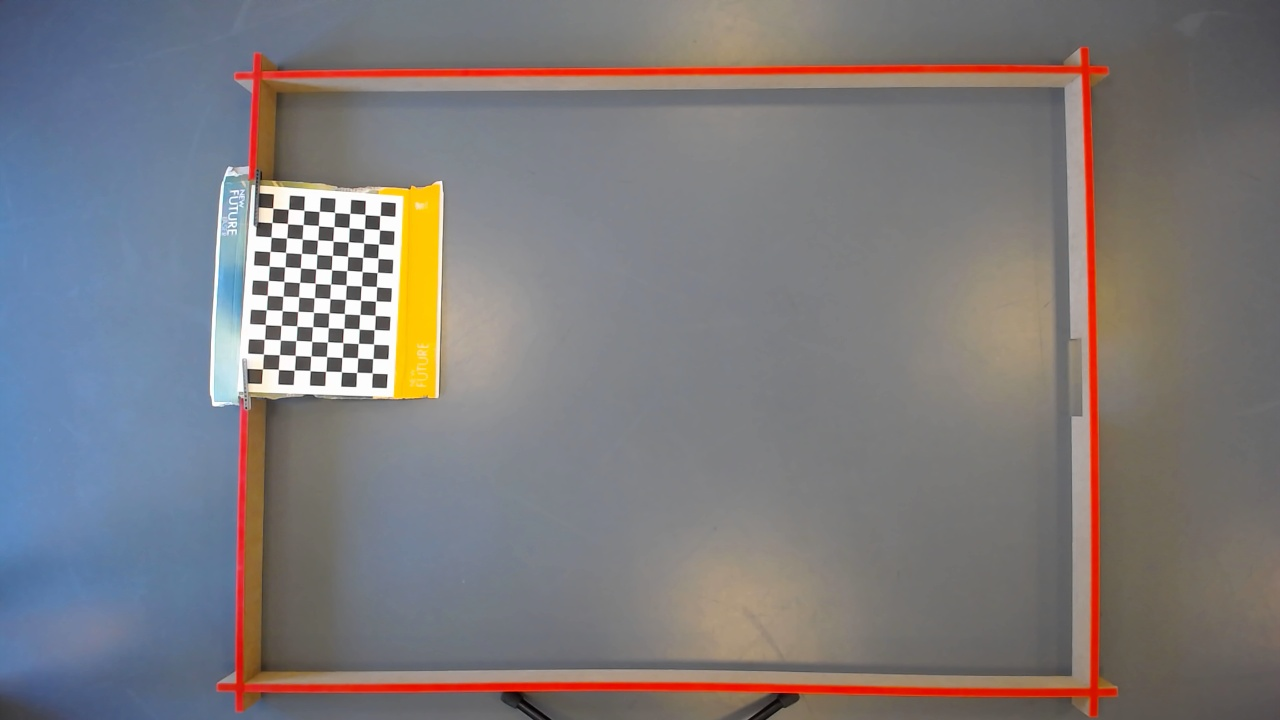
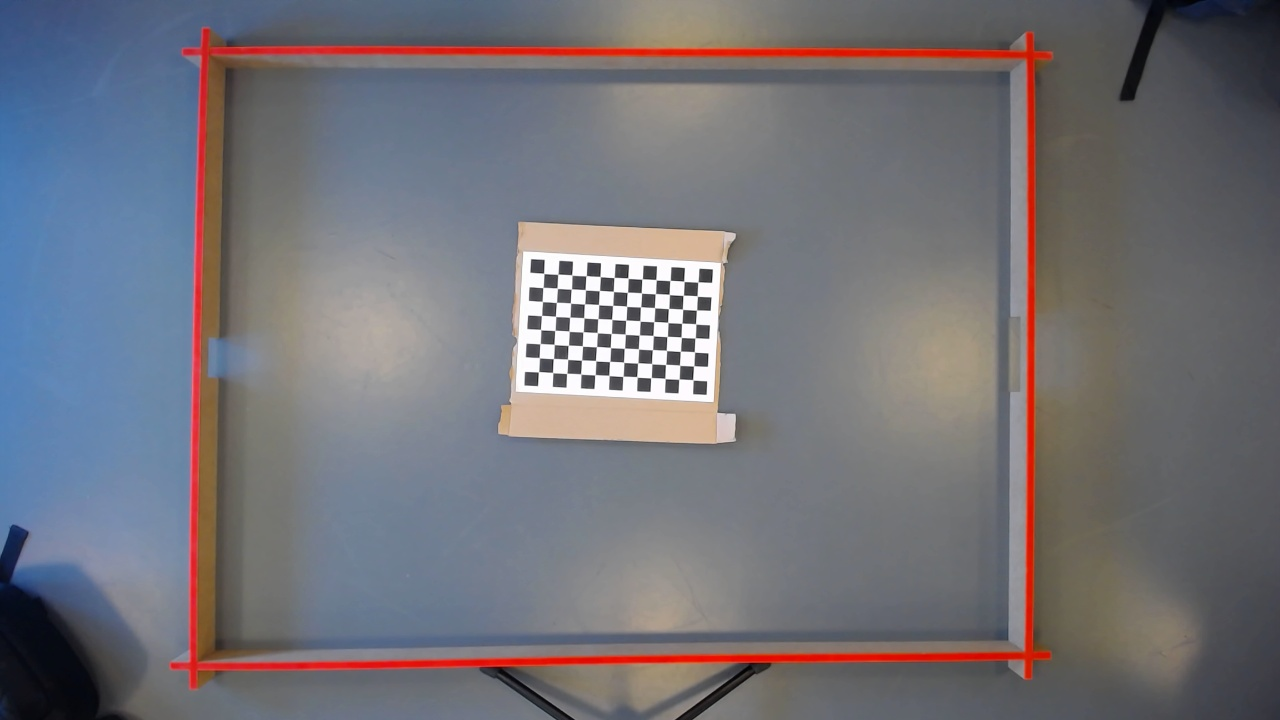
cali pictures

diff --git a/Calibration/take_photo.py b/Calibration/take_photo.py
@@ -1,7 +1,7 @@
 import cv2 as cv
 # Simple file for capturing and saving an image in the same fashion as the image will be captured in the final display.
 print("Starting")
-videoCapture = cv.VideoCapture(0, cv.CAP_DSHOW)
+videoCapture = cv.VideoCapture(1, cv.CAP_DSHOW)
 videoCapture.set(cv.CAP_PROP_FRAME_WIDTH, 1280)
 videoCapture.set(cv.CAP_PROP_FRAME_HEIGHT, 720)
 
@@ -13,7 +13,7 @@ while 1:
         break
     cv.imshow('Read picture', image)
     if cv.waitKey(1) & 0xFF == ord('q'):
-        cv.imwrite('calibration_images/calibration_photo_1.jpg', image)
+        cv.imwrite('calibration_images/calibration_photo_10.jpg', image)
         break
 
 videoCapture.release()
